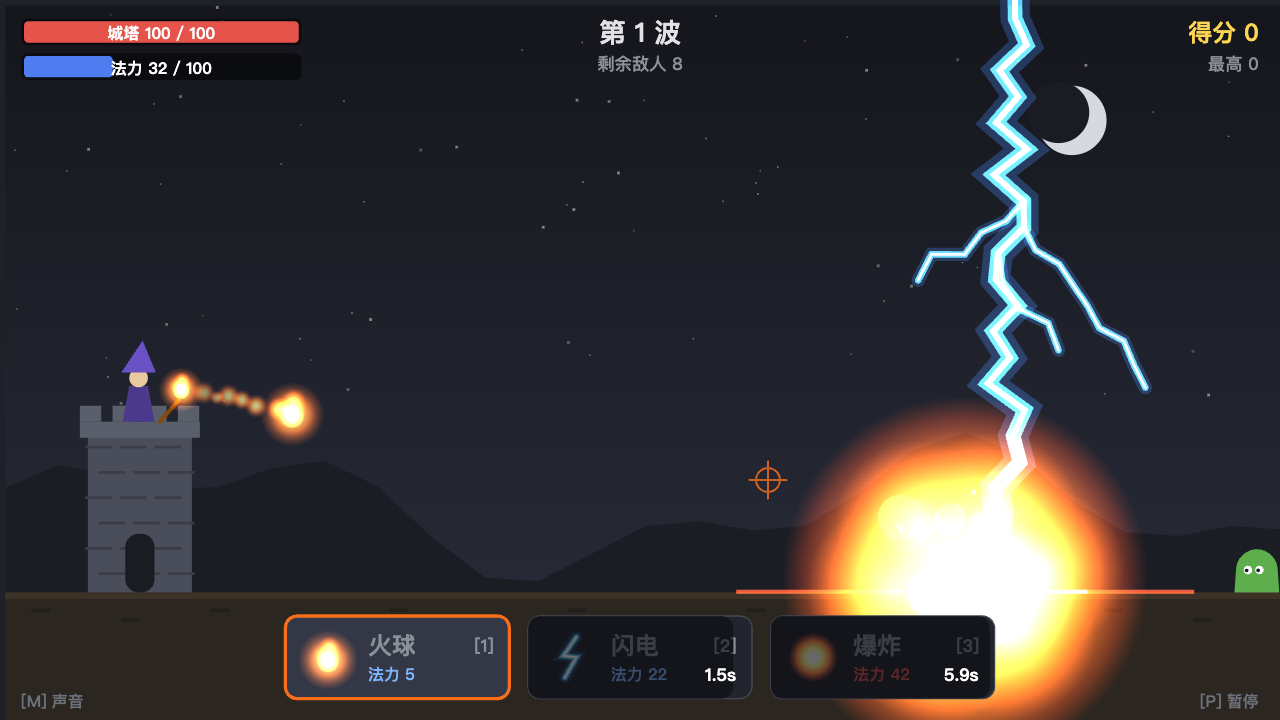
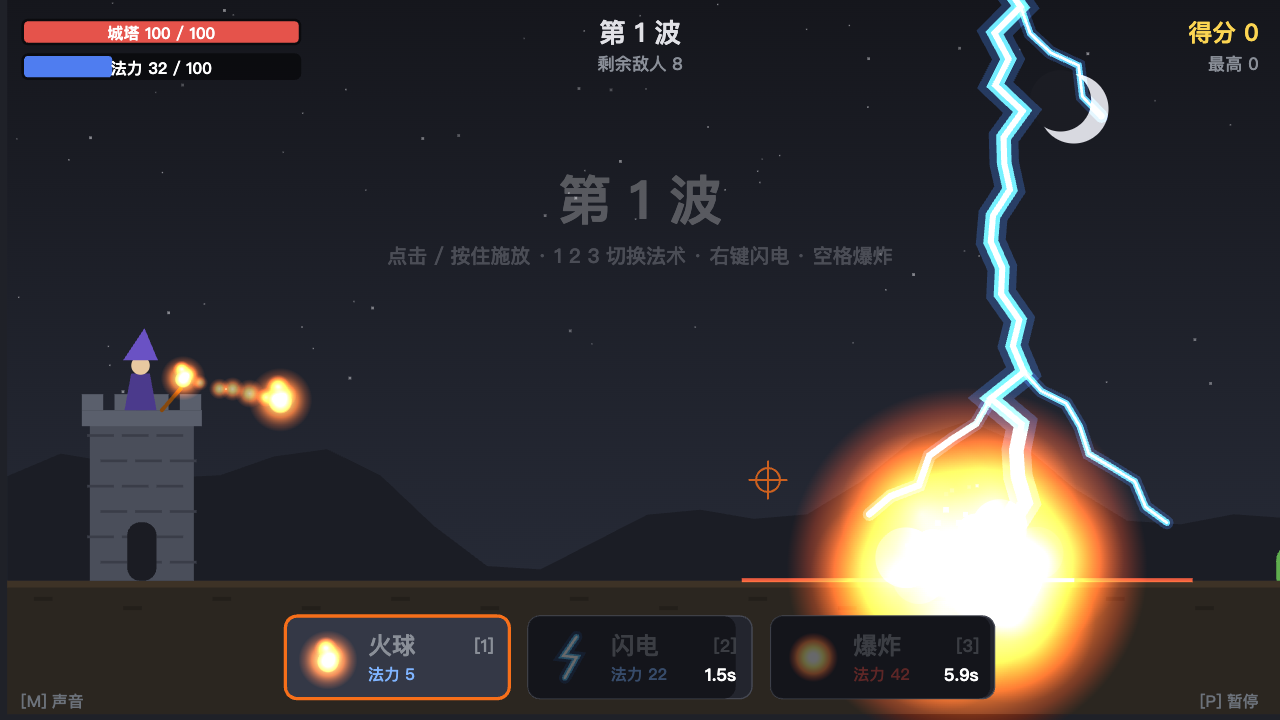
feat: add game cover capture script, assets, and guidelines

Changed region(s): [[0.0, 0.0, 1.0, 1.0], [0.0625, 0.4583, 0.25, 0.6111], [0.25, 0.8861, 0.2812, 0.9167]]

diff --git a/js/games-data.js b/js/games-data.js
@@ -50,7 +50,7 @@
       aiEngine: 'Claude Fable 5.2',
       fileUrl: 'games/几猫国产3A大作_V1.html',
       originalUrl: 'https://claude.ai/artifact/BGY1SztrAYcJQHSsnHHGmp',
-      cover: 'assets/covers/saltline.svg',
+      cover: 'assets/covers/saltline.webp',
       summary: '由 Claude Fable 5.2 全自动端到端编码生成的 3A 级写实光影码头第一人称射击游戏。',
       summaryEn: 'AAA photorealistic browser FPS set in an industrial container port, 100% crafted end-to-end by Claude Fable 5.2.',
       description: '《Saltline》是 AI 游戏开发史上的标志性里程碑作品。由 Claude Fable 5.2 独立端到端编写生成，涵盖程序化写实集装箱码头、体积雾与柔和阴影、机械瞄具射击手感与动态音效合成。体验震撼的下一代网页端原生 3A 画面。',
@@ -101,7 +101,7 @@
       aiEngine: 'Claude Fable 5.2',
       fileUrl: 'games/qq-speed-3d.html',
       originalUrl: 'https://lf3-static.bytednsdoc.com/obj/eden-cn/nulojnulwlo/qqfeiche3d/index.html',
-      cover: 'assets/covers/qq-speed-3d.svg',
+      cover: 'assets/covers/qq-speed-3d.webp',
       summary: '由 Claude Fable 5.2 制作的高保真 3D 竞速大作！纯 WebGL 还原 QQ飞车经典地图（11城、爱琴海、金字塔），支持漂移集气与双喷！',
       summaryEn: '100% Crafted by Claude Fable 5.2: High-fidelity 3D browser drift racing homage to QQ Speed with iconic tracks and nitro combos.',
       description: '浏览器里的 3D 竞速盛宴！深度复刻端游 QQ飞车的核心驾驶手感：贴墙漂移、双喷触发、大喷过弯，包含11城、情迷爱琴海、法老金字塔与雪地大冒险多张经典赛道，支持计时赛与道具赛！',
@@ -148,7 +148,7 @@
       aiEngine: 'Claude Fable 5.2',
       fileUrl: 'games/cf-transport-ship.html',
       originalUrl: 'https://lf3-static.bytednsdoc.com/obj/eden-cn/nulojnulwlo/cf-transport-ship/transport-ship.html',
-      cover: 'assets/covers/cf-transport-ship.svg',
+      cover: 'assets/covers/cf-transport-ship.webp',
       summary: '由 Claude Fable 5.2 打造的经典穿越火线「运输船」3D 原生复刻：团队竞技对决，保卫者 vs 潜伏者！',
       summaryEn: 'Web 3D remake of the iconic CrossFire Transport Ship cargo map, 100% crafted & coded by Claude Fable 5.2.',
       description: '亿万玩家青春记忆重现！穿越火线经典地图「运输船」网页 3D 复刻：红蓝集装箱掩体、中桥对狙、地道奇袭，支持团队竞技阵营选择、高智能 BOT 人机对抗与真实打击击杀反馈！',
@@ -197,7 +197,7 @@
       aiEngine: 'Claude Fable 5.2',
       fileUrl: 'https://wukong.cnmwx.com/',
       originalUrl: 'https://wukong.cnmwx.com/',
-      cover: 'assets/covers/black-myth-wukong.svg',
+      cover: 'assets/covers/black-myth-wukong.webp',
       summary: '由 Claude Fable 5.2 打造的三维西游动作 RPG，扮演天命人，重温六卷西行路。劈棍连击与神通法术！',
       summaryEn: '3D Journey to the West action RPG crafted by Claude Fable 5.2. Play as the Destined One with fluid staff arts and spells.',
       description: '重走西行路，踏碎凌霄！《黑神话 · 悟空 (天命人)》网页高精版还原端游硬核战斗体验：棍法连段行云流水，识破化解强敌招式，施展奇术定身、聚形散气残影与铜头铁臂抵挡万千攻击！',
@@ -244,7 +244,7 @@
       aiEngine: 'Claude Fable 5.2',
       fileUrl: 'https://ai-native-d9gyz4kr613a26c4f-1344763503.tcloudbaseapp.com/',
       originalUrl: 'https://ai-native-d9gyz4kr613a26c4f-1344763503.tcloudbaseapp.com/',
-      cover: 'assets/covers/black-myth-guanyu.svg',
+      cover: 'assets/covers/black-myth-guanyu.webp',
       summary: 'Claude Fable 5.2 制作的三国武圣关羽写实动作独立微游戏，手握青龙偃月刀，施展破风刀气与龙魂斩击！',
       summaryEn: 'Hardcore 3D action web game crafted by Claude Fable 5.2 featuring martial saint Guan Yu.',
       description: '义薄云天，万夫莫敌！化身三国武圣关云长，在肃杀幽暗的战场中力斩强敌。挥舞青龙偃月重刀，破招反制，感受刀刀入肉的硬核动作打击感与气势磅礴的中华武术神韵！',
@@ -291,7 +291,7 @@
       aiEngine: 'Claude Fable 5.2',
       fileUrl: 'https://lol.hanyue.io/',
       originalUrl: 'https://lol.hanyue.io/',
-      cover: 'assets/covers/lol-aram.svg',
+      cover: 'assets/covers/lol-aram.webp',
       summary: 'Claude Fable 5.2 制作的嚎哭深渊极地大乱斗！自选英雄、神话装备搭配、抽取海克斯强化符文，极速推塔！',
       summaryEn: 'Howling Abyss Hextech ARAM on the icy bridge, 100% crafted & coded by Claude Fable 5.2.',
       description: '全网爆火的网页端《英雄联盟》同人复刻！在嚎哭深渊冰雪长桥上开启 5v5 爽快推塔对战。不仅完美还原 QWER 英雄核心技能与召唤师闪现雪球，更引入了自走棋式的海克斯强化符文三选一，无限火力极速 CD！',
@@ -339,7 +339,7 @@
       aiEngine: 'Claude Fable 5.2',
       fileUrl: 'games/pelican-bike.html',
       originalUrl: 'https://lf3-static.bytednsdoc.com/obj/eden-cn/nulojnulwlo/pelican-bike/index.html',
-      cover: 'assets/covers/pelican-bike.svg',
+      cover: 'assets/covers/pelican-bike.webp',
       summary: 'Claude Fable 5.2 打造的治愈系 3D 漫游作品！可爱白鹈鹕骑着复古单车在落日海岸线追逐鱼群！',
       summaryEn: 'Pure zen 3D coastline cruising 100% crafted & coded by Claude Fable 5.2.',
       description: '极富艺术美感的治愈系 3D 休闲漫游作品。戴着飞行头盔与飘逸红围巾的白鹈鹕，骑着复古老式脚踏车，沿海岸公路慢节奏骑行。欣赏实时渲染的 Gerstner 海浪波动、落日晚霞与昼夜流转，享受轻松悠扬的合成音乐。',
@@ -383,7 +383,7 @@
       developerEn: 'Claude Fable 5.2 Studio',
       aiEngine: 'Claude Fable 5.2',
       fileUrl: 'games/elemental-mage.html',
-      cover: 'assets/covers/elemental-mage.svg',
+      cover: 'assets/covers/elemental-mage.webp',
       summary: 'Claude Fable 5.2 独立制作的元素法师！在战场中交织轰击连珠火球与连锁闪电，全屏割草解压！',
       summaryEn: 'High-octane top-down magic shooter 100% crafted & coded by Claude Fable 5.2.',
       description: '节奏明快、特效华丽的 2D 俯视角法术弹幕射击游戏。玩家扮演全系奥术大法师，自由切换烈焰爆轰、连锁闪电与极寒冰锥，利用不同元素的相生相克引爆毁灭性的元素反应！',

diff --git a/scripts/capture_all_covers.py b/scripts/capture_all_covers.py
@@ -1,0 +1,187 @@
+#!/usr/bin/env python3
+# /// script
+# dependencies = [
+#   "playwright",
+#   "pillow",
+# ]
+# ///
+
+import os
+import sys
+import time
+import socket
+import threading
+from pathlib import Path
+from http.server import HTTPServer, SimpleHTTPRequestHandler
+from PIL import Image
+
+WORKSPACE_DIR = Path(__file__).resolve().parent.parent
+COVERS_DIR = WORKSPACE_DIR / "assets" / "covers"
+
+class QuietHandler(SimpleHTTPRequestHandler):
+    def __init__(self, *args, **kwargs):
+        super().__init__(*args, directory=str(WORKSPACE_DIR), **kwargs)
+    def log_message(self, format, *args):
+        pass
+
+def get_free_port():
+    with socket.socket(socket.AF_INET, socket.SOCK_STREAM) as s:
+        s.bind(('127.0.0.1', 0))
+        return s.getsockname()[1]
+
+def save_cover_images(png_path: Path, base_name: str):
+    COVERS_DIR.mkdir(parents=True, exist_ok=True)
+    out_png = COVERS_DIR / f"{base_name}.png"
+    out_webp = COVERS_DIR / f"{base_name}.webp"
+
+    with Image.open(png_path) as img:
+        rgb_img = img.convert("RGB")
+        # Resize to standard 16:9 (1280x720) if larger
+        if rgb_img.width != 1280 or rgb_img.height != 720:
+            rgb_img = rgb_img.resize((1280, 720), Image.Resampling.LANCZOS)
+        rgb_img.save(out_png, "PNG", optimize=True)
+        rgb_img.save(out_webp, "WEBP", quality=92, method=6)
+
+    print(f"  ✓ Saved: {out_webp.name} ({out_webp.stat().st_size // 1024} KB)")
+
+def main():
+    port = get_free_port()
+    server = HTTPServer(('127.0.0.1', port), QuietHandler)
+    server_thread = threading.Thread(target=server.serve_forever, daemon=True)
+    server_thread.start()
+    base_url = f"http://127.0.0.1:{port}"
+    print(f"Local server started at {base_url}")
+
+    from playwright.sync_api import sync_playwright
+    import tempfile
+
+    with tempfile.TemporaryDirectory() as temp_dir_str:
+        temp_dir = Path(temp_dir_str)
+        with sync_playwright() as p:
+            browser = p.chromium.launch(
+                executable_path="/Applications/Google Chrome.app/Contents/MacOS/Google Chrome",
+                headless=True,
+                args=[
+                    "--enable-webgl",
+                    "--ignore-gpu-blocklist",
+                    "--use-gl=angle",
+                    "--use-angle=metal",
+                    "--enable-gpu-rasterization",
+                    "--no-sandbox"
+                ]
+            )
+            context = browser.new_context(viewport={"width": 1280, "height": 720})
+            page = context.new_page()
+
+            # 1. qq-speed-3d
+            print("Capturing qq-speed-3d...")
+            try:
+                page.goto(f"{base_url}/games/qq-speed-3d.html")
+                page.wait_for_timeout(1000)
+                # Click start button
+                start_btn = page.locator("#start")
+                if start_btn.count() > 0:
+                    start_btn.click()
+                page.wait_for_timeout(3000)
+                tmp = temp_dir / "qq-speed-3d.png"
+                page.screenshot(path=str(tmp))
+                save_cover_images(tmp, "qq-speed-3d")
+            except Exception as e:
+                print(f"Error qq-speed-3d: {e}")
+
+            # 2. cf-transport-ship
+            print("Capturing cf-transport-ship...")
+            try:
+                page.goto(f"{base_url}/games/cf-transport-ship.html")
+                page.wait_for_timeout(1000)
+                btn = page.locator("#btnStart")
+                if btn.count() > 0:
+                    btn.click()
+                page.wait_for_timeout(3000)
+                tmp = temp_dir / "cf-transport-ship.png"
+                page.screenshot(path=str(tmp))
+                save_cover_images(tmp, "cf-transport-ship")
+            except Exception as e:
+                print(f"Error cf-transport-ship: {e}")
+
+            # 3. pelican-bike
+            print("Capturing pelican-bike...")
+            try:
+                page.goto(f"{base_url}/games/pelican-bike.html")
+                page.wait_for_timeout(1000)
+                btn = page.locator("#startBtn")
+                if btn.count() > 0:
+                    btn.click()
+                page.wait_for_timeout(3500)
+                tmp = temp_dir / "pelican-bike.png"
+                page.screenshot(path=str(tmp))
+                save_cover_images(tmp, "pelican-bike")
+            except Exception as e:
+                print(f"Error pelican-bike: {e}")
+
+            # 4. elemental-mage
+            print("Capturing elemental-mage...")
+            try:
+                page.goto(f"{base_url}/games/elemental-mage.html")
+                page.wait_for_timeout(600)
+                page.evaluate("window.__game && window.__game.newGame()")
+                page.wait_for_timeout(2000)
+                page.evaluate("""
+                    if (window.__game) {
+                        window.__game.cast('boom', 720, 430);
+                        window.__game.cast('bolt', 750, 430);
+                        window.__game.cast('fire', 680, 410);
+                    }
+                """)
+                page.wait_for_timeout(100)
+                tmp = temp_dir / "elemental-mage.png"
+                page.screenshot(path=str(tmp))
+                save_cover_images(tmp, "elemental-mage")
+            except Exception as e:
+                print(f"Error elemental-mage: {e}")
+
+            # 5. saltline (几猫3A大作)
+            print("Capturing saltline...")
+            try:
+                page.goto(f"{base_url}/games/%E5%87%A0%E7%8C%AB%E5%9B%BD%E4%BA%A73A%E5%A4%A7%E4%BD%9C_V1.html?autostart=1&q=ultra")
+                for _ in range(40):
+                    ready = page.evaluate("() => { const b = document.getElementById('boot'); return b && b.classList.contains('done'); }")
+                    if ready:
+                        break
+                    page.wait_for_timeout(500)
+                page.wait_for_timeout(2500)
+                tmp = temp_dir / "saltline.png"
+                page.screenshot(path=str(tmp))
+                save_cover_images(tmp, "saltline")
+            except Exception as e:
+                print(f"Error saltline: {e}")
+
+            # 6. black-myth-wukong (online)
+            print("Capturing black-myth-wukong...")
+            try:
+                page.goto("https://wukong.cnmwx.com/", timeout=15000)
+                page.wait_for_timeout(5000)
+                tmp = temp_dir / "black-myth-wukong.png"
+                page.screenshot(path=str(tmp))
+                save_cover_images(tmp, "black-myth-wukong")
+            except Exception as e:
+                print(f"Error black-myth-wukong: {e}")
+
+            # 7. lol-aram (online)
+            print("Capturing lol-aram...")
+            try:
+                page.goto("https://lol.hanyue.io/", timeout=15000)
+                page.wait_for_timeout(4000)
+                tmp = temp_dir / "lol-aram.png"
+                page.screenshot(path=str(tmp))
+                save_cover_images(tmp, "lol-aram")
+            except Exception as e:
+                print(f"Error lol-aram: {e}")
+
+            browser.close()
+
+    server.shutdown()
+    print("Done!")
+
+if __name__ == "__main__":
+    main()

diff --git a/.agents/rules/game-thumbnails.md b/.agents/rules/game-thumbnails.md
@@ -1,0 +1,32 @@
+---
+description: 游戏缩略图与封面资产管理规范
+trigger: always_on
+---
+
+# 游戏缩略图规范 (Game Thumbnails & Covers Guidelines)
+
+在 FableGames 平台中添加或维护游戏时，必须严格遵守以下缩略图与封面资产管理规范：
+
+## 1. 真实截图优先原则 (Real In-Game Screenshots First)
+- **尽量使用游戏真实运行截图**：添加或接入新游戏时，游戏缩略图（`cover`）必须尽量使用该游戏的真实运行截图（In-game Real Screenshot）。
+- **严禁替代品**：严禁使用纯文字排版、纯色色块或简陋的矢量 SVG 图标替代真实的游戏实机画面。
+- **关键高光捕捉**：截图应尽可能捕捉具有代表性、高动态与高视觉冲击力的场景，例如：
+  - 3D 赛道飞驰、氮气加速、漂移过弯与仪表盘；
+  - 第一人称射击第一视角持枪、集装箱掩体、瞄准交火；
+  - 开放世界角色动作、高画质光影材质与远景；
+  - 酷炫全屏法术弹幕连段与粒子爆裂；
+  - 具有沉浸感的主角实机站姿或大厅战斗准备画面。
+
+## 2. 格式与尺寸标准 (Format & Resolution Standards)
+- **图像格式**：统一采用现代化、高压缩比、高画质的 **WebP** 格式（质量推荐 `quality=92`）。
+- **画幅比例**：严格保持 **16:9** 标准宽屏比例，推荐分辨率为 **1280 × 720**（或等比高清缩放）。
+- **存储路径**：
+  - 缩略图统一存放在 `assets/covers/<game-id>.webp`。
+  - 在 `js/games-data.js` 中将 `cover` 字段配置为对应的相对路径（如 `'assets/covers/<game-id>.webp'`）。
+
+## 3. 自动化截图流程 (Automated Capture Pipeline)
+- 项目中内置了基于 Playwright 的自动化实机截图工具：
+  ```bash
+  uv run scripts/capture_all_covers.py
+  ```
+- 该脚本通过无头浏览器自动拉起游戏，触发开始按钮或核心游戏逻辑后截取并生成标准尺寸的 WebP 资产。

diff --git a/AGENTS.md b/AGENTS.md
@@ -1,0 +1,25 @@
+# FableGames 项目开发规范 (AGENTS.md)
+
+本项目为 **FableGames**（专注于汇聚由 Claude Fable 5.2 制作的次世代原生 Web 网页微游戏平台）。
+
+## 核心规则：游戏缩略图必须尽量使用游戏截图
+
+所有在项目中添加、集成或维护游戏的 Agent 与开发者，必须严格遵守以下规范：
+
+1. **真实截图优先原则 (Real In-Game Screenshot First)**：
+   - 添加任何新游戏时，游戏缩略图（`cover`）**必须尽量使用游戏的真实运行截图**。
+   - **严禁**使用纯文字排版、单调色块、或简陋的矢量 SVG 代替游戏的实机画面。
+   - 截图必须捕捉代表性的高光画面（如 3D 光影场景、第一视角射击对决、漂移喷火过弯、华丽法术连击等）。
+
+2. **格式与尺寸规范**：
+   - 统一采用现代 **WebP** 格式（兼具超高画质与极致体积压缩），可附带高分辨率 PNG 原始备份。
+   - 比例必须保持 **16:9**（推荐标准分辨率为 `1280x720`）。
+   - 存储路径：`assets/covers/<game-id>.webp`。
+   - 数据注册：在 `js/games-data.js` 的游戏元数据中将 `cover` 属性指向 `assets/covers/<game-id>.webp`。
+
+3. **自动化截图流程**：
+   - 使用项目自带的实机截图工具一键捕获：
+     ```bash
+     uv run scripts/capture_all_covers.py
+     ```
+   - 脚本通过 Chrome 无头浏览器启动游戏、触发开始逻辑或动作帧后自动保存为符合规范的标准尺寸 WebP 封面。
